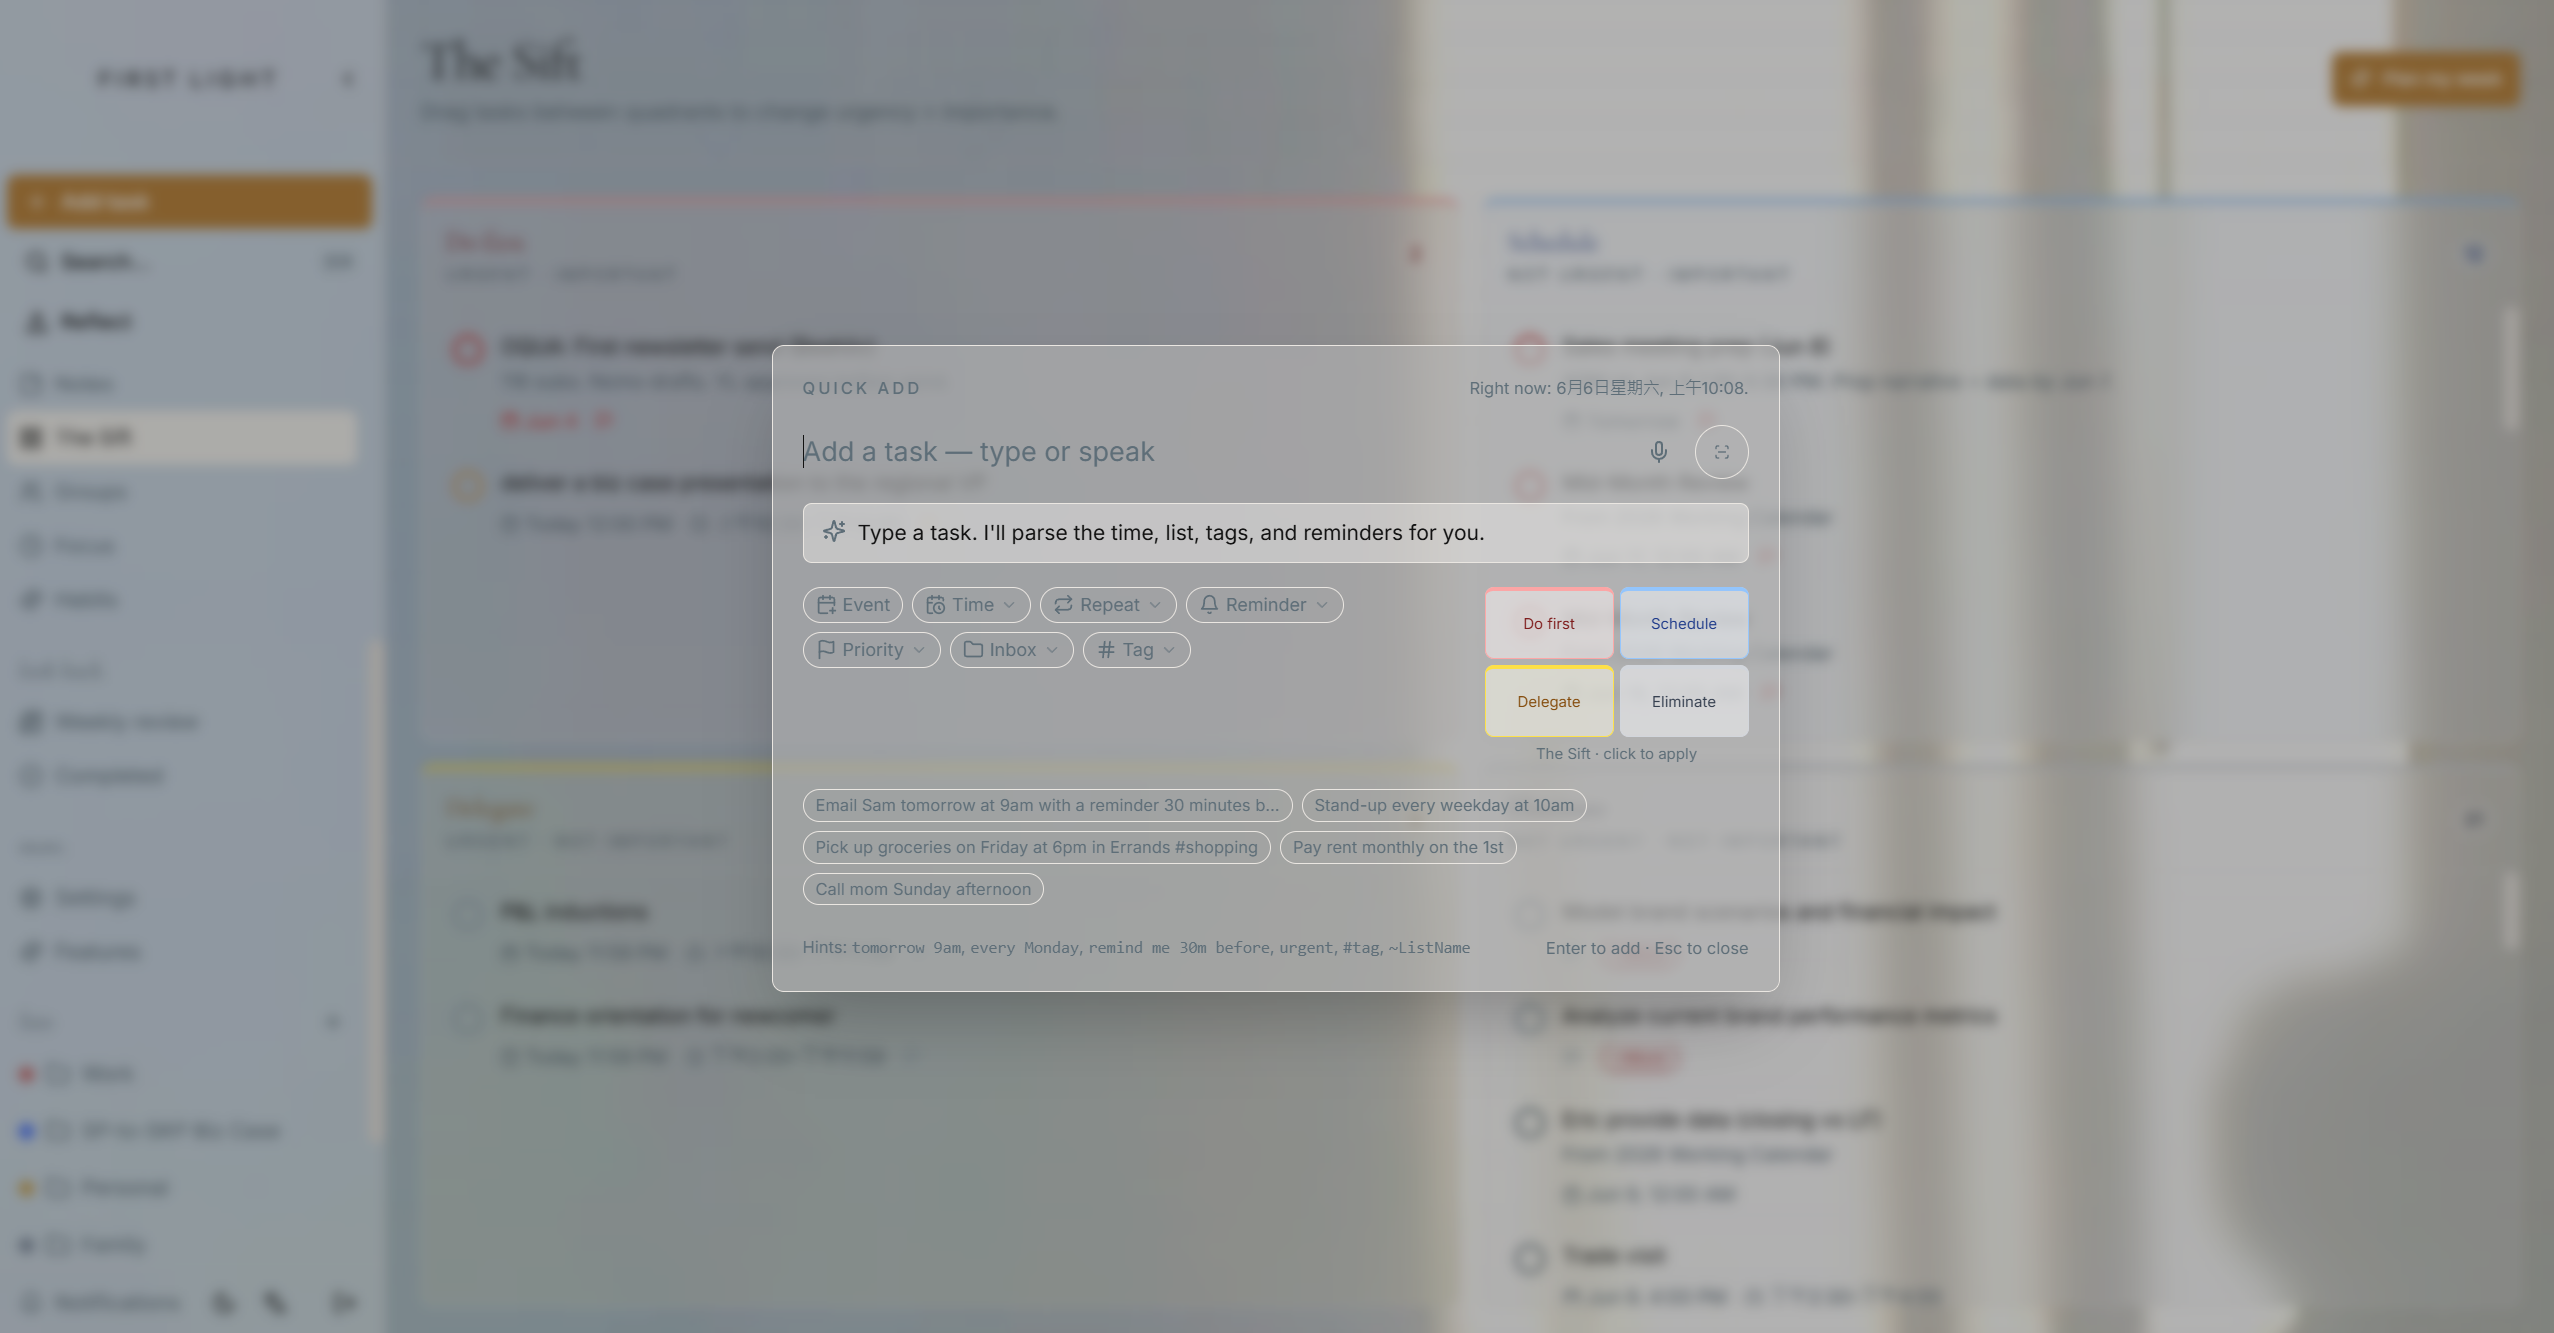
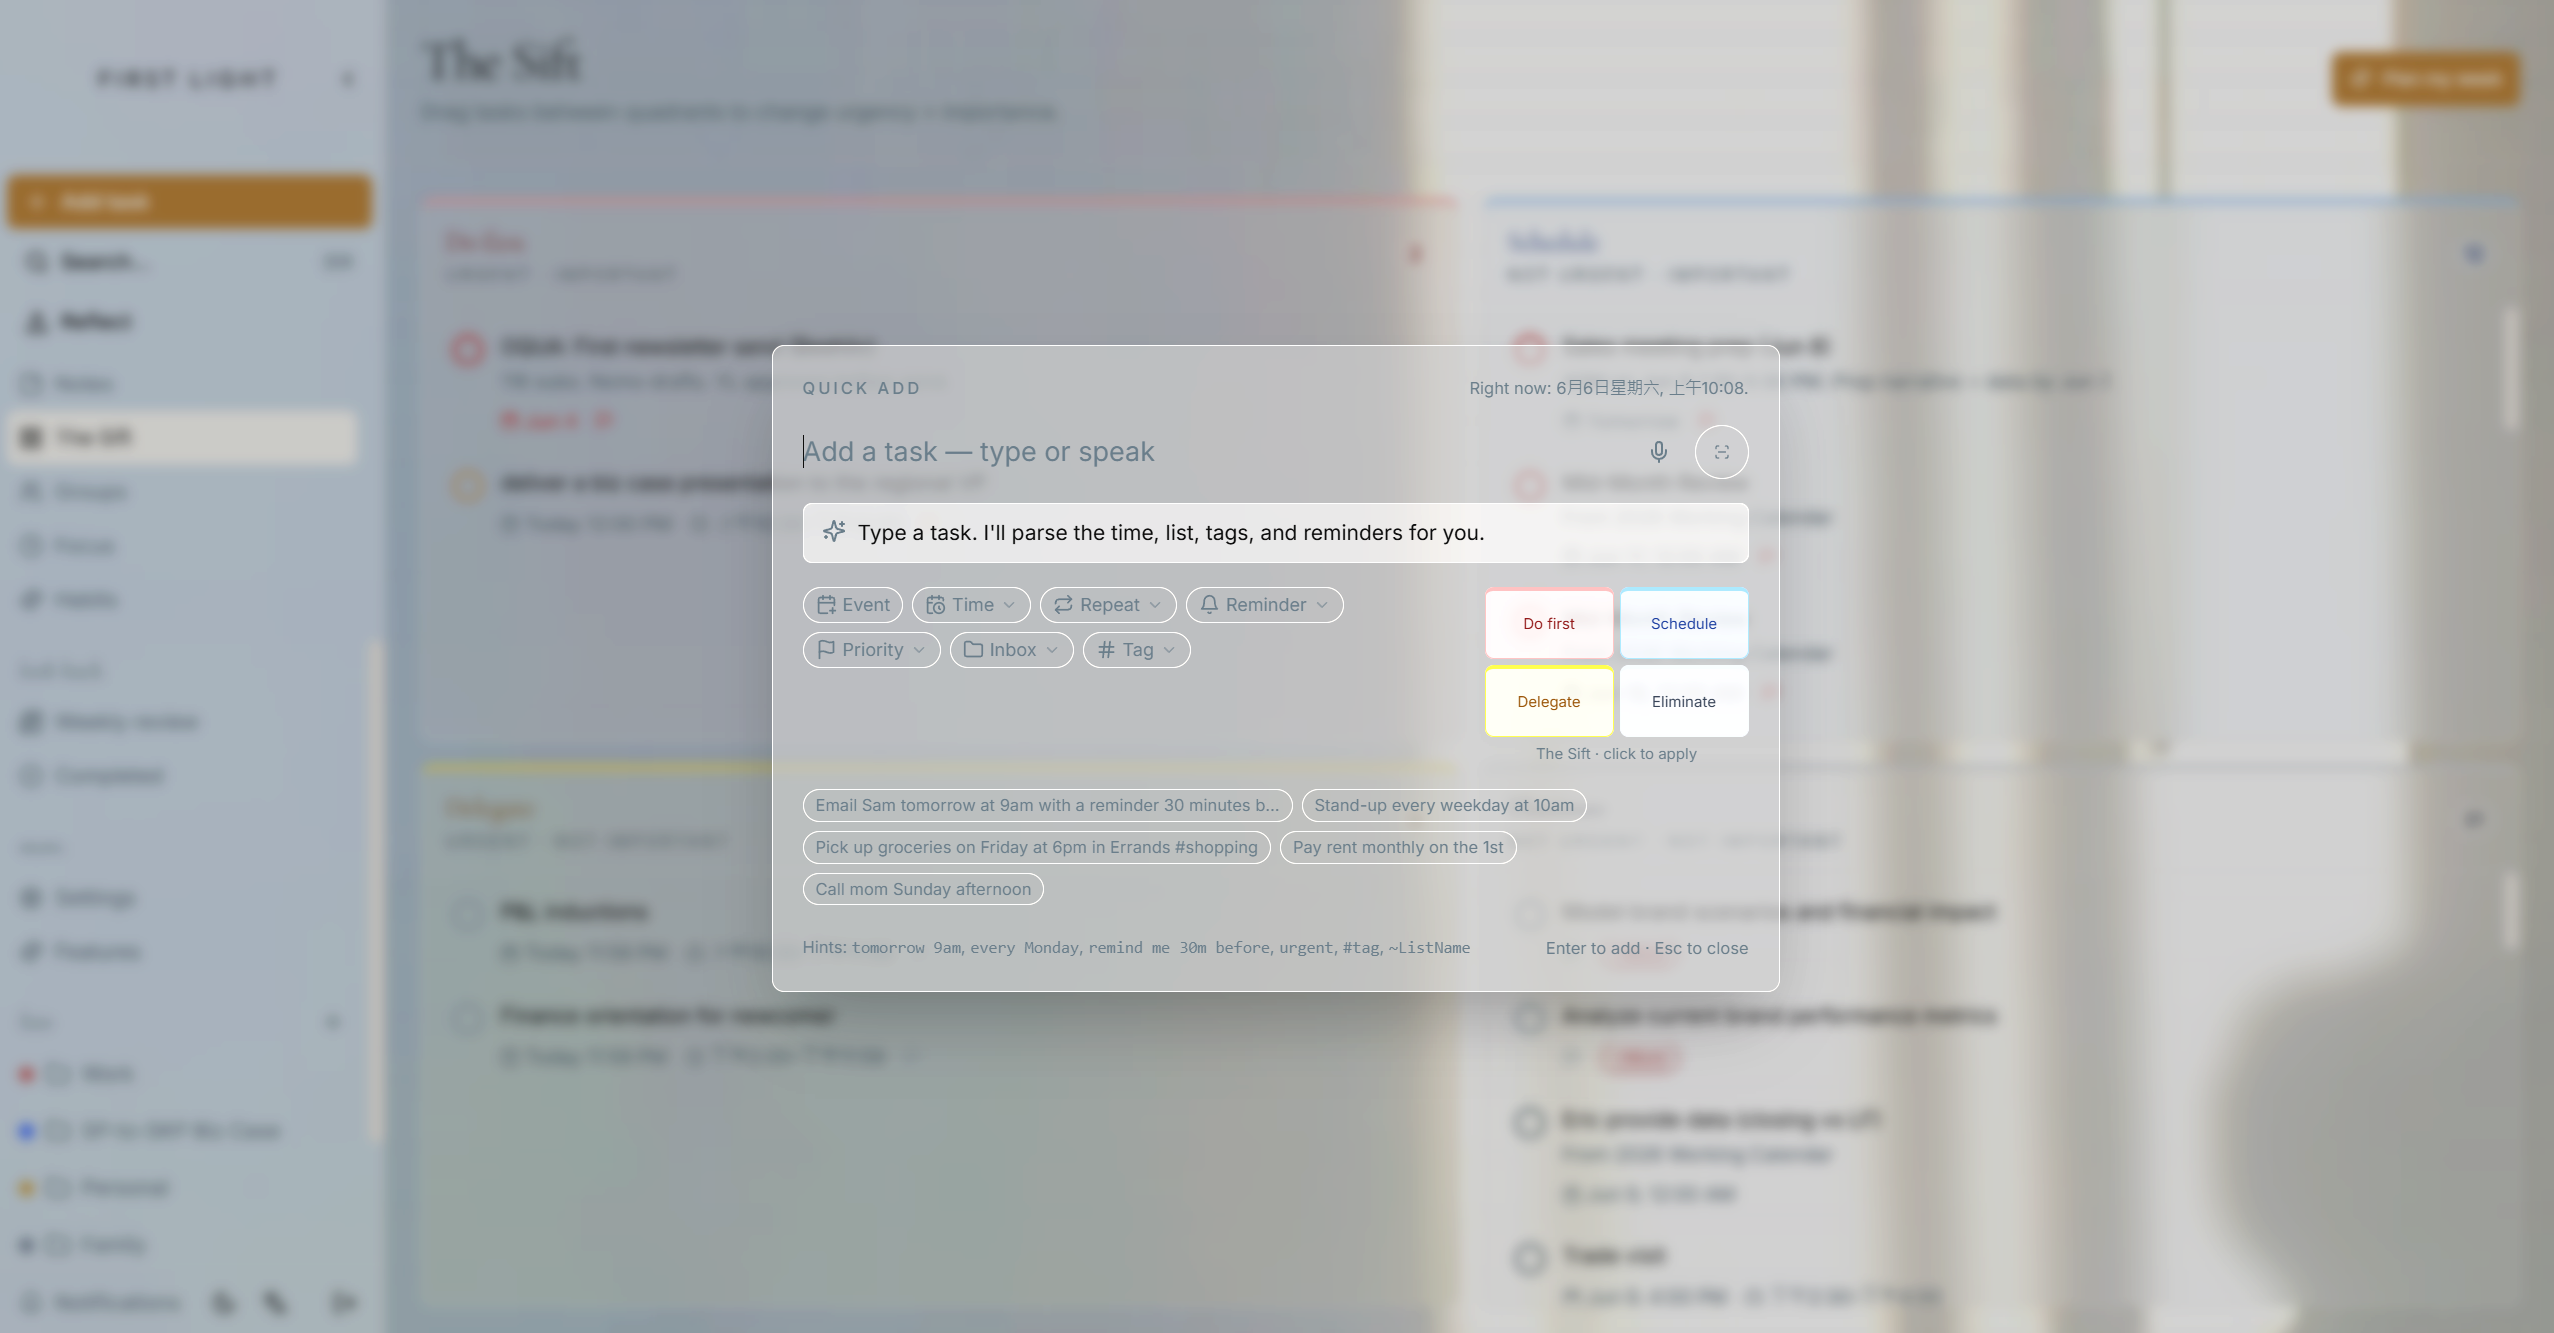
fix: brighten Quick Add screenshot + center & enlarge light/dark toggle
- Bumped Quick Add light screenshot brightness +18%, contrast +5%
- Light/Dark toggle now centered with text labels ('☀️ Light' / '🌙 Dark')
- Toggle pill is larger (text-base, px-4 py-1.5) so users don't miss it
- Nav arrows flanking the center control block
- Screenshot label + counter stacked vertically in center

diff --git a/src/components/marketing/app-screenshot.tsx b/src/components/marketing/app-screenshot.tsx
@@ -68,58 +68,60 @@ export function AppScreenshot() {
 
   return (
     <section className="py-12 max-w-6xl mx-auto w-full px-6">
-      {/* Header row: label + toggle + arrows */}
-      <div className="flex items-center justify-between mb-4 gap-4">
-        <p className="editorial-number text-[10px] tracking-[0.22em] text-muted-fg">
-          {shot.label}
-        </p>
+      {/* Controls bar: left arrow — label — toggle — counter — right arrow */}
+      <div className="flex items-center justify-center gap-4 mb-6">
+        {/* Left arrow */}
+        <button
+          onClick={prev}
+          aria-label="Previous screenshot"
+          className="size-10 rounded-full border border-border hover:bg-muted/60 grid place-items-center transition-colors shrink-0"
+        >
+          <ChevronLeft className="size-5" />
+        </button>
 
-        <div className="flex items-center gap-3">
-          {/* Light/Dark toggle */}
-          <div className="inline-flex items-center rounded-full border border-border bg-muted/30 p-0.5 text-xs">
+        {/* Center block: label + toggle + counter */}
+        <div className="flex flex-col items-center gap-2">
+          <p className="editorial-number text-[11px] tracking-[0.22em] text-muted-fg">
+            {shot.label}
+          </p>
+
+          {/* Light/Dark toggle — bigger, centered */}
+          <div className="inline-flex items-center rounded-full border border-border bg-muted/30 p-1 text-sm">
             <button
               onClick={() => setMode("light")}
-              className={`px-2.5 py-1 rounded-full transition-all ${
+              className={`px-4 py-1.5 rounded-full transition-all text-base ${
                 mode === "light"
                   ? "bg-white shadow-sm text-fg font-medium"
                   : "text-muted-fg hover:text-fg"
               }`}
             >
-              ☀️
+              ☀️ Light
             </button>
             <button
               onClick={() => setMode("dark")}
-              className={`px-2.5 py-1 rounded-full transition-all ${
+              className={`px-4 py-1.5 rounded-full transition-all text-base ${
                 mode === "dark"
                   ? "bg-stone-800 shadow-sm text-white font-medium"
                   : "text-muted-fg hover:text-fg"
               }`}
             >
-              🌙
+              🌙 Dark
             </button>
           </div>
 
-          {/* Nav arrows */}
-          <div className="flex items-center gap-1.5">
-            <button
-              onClick={prev}
-              aria-label="Previous screenshot"
-              className="size-9 rounded-full border border-border hover:bg-muted/60 grid place-items-center transition-colors"
-            >
-              <ChevronLeft className="size-4" />
-            </button>
-            <span className="text-xs text-muted-fg tabular-nums min-w-[3ch] text-center">
-              {index + 1}/{screenshots.length}
-            </span>
-            <button
-              onClick={next}
-              aria-label="Next screenshot"
-              className="size-9 rounded-full border border-border hover:bg-muted/60 grid place-items-center transition-colors"
-            >
-              <ChevronRight className="size-4" />
-            </button>
-          </div>
+          <span className="text-xs text-muted-fg tabular-nums">
+            {index + 1} / {screenshots.length}
+          </span>
         </div>
+
+        {/* Right arrow */}
+        <button
+          onClick={next}
+          aria-label="Next screenshot"
+          className="size-10 rounded-full border border-border hover:bg-muted/60 grid place-items-center transition-colors shrink-0"
+        >
+          <ChevronRight className="size-5" />
+        </button>
       </div>
 
       {/* Single centered screenshot */}
@@ -135,18 +137,18 @@ export function AppScreenshot() {
       </div>
 
       {/* Caption */}
-      <p className="text-center text-xs text-muted-fg mt-3">
+      <p className="text-center text-sm text-muted-fg mt-4">
         {shot.caption}
       </p>
 
       {/* Dot indicators */}
-      <div className="flex justify-center gap-2 mt-4">
+      <div className="flex justify-center gap-2.5 mt-4">
         {screenshots.map((s, i) => (
           <button
             key={s.id}
             onClick={() => setIndex(i)}
             aria-label={`View ${s.label}`}
-            className={`size-2 rounded-full transition-all ${
+            className={`size-2.5 rounded-full transition-all ${
               i === index
                 ? "bg-fg scale-110"
                 : "bg-border hover:bg-muted-fg"